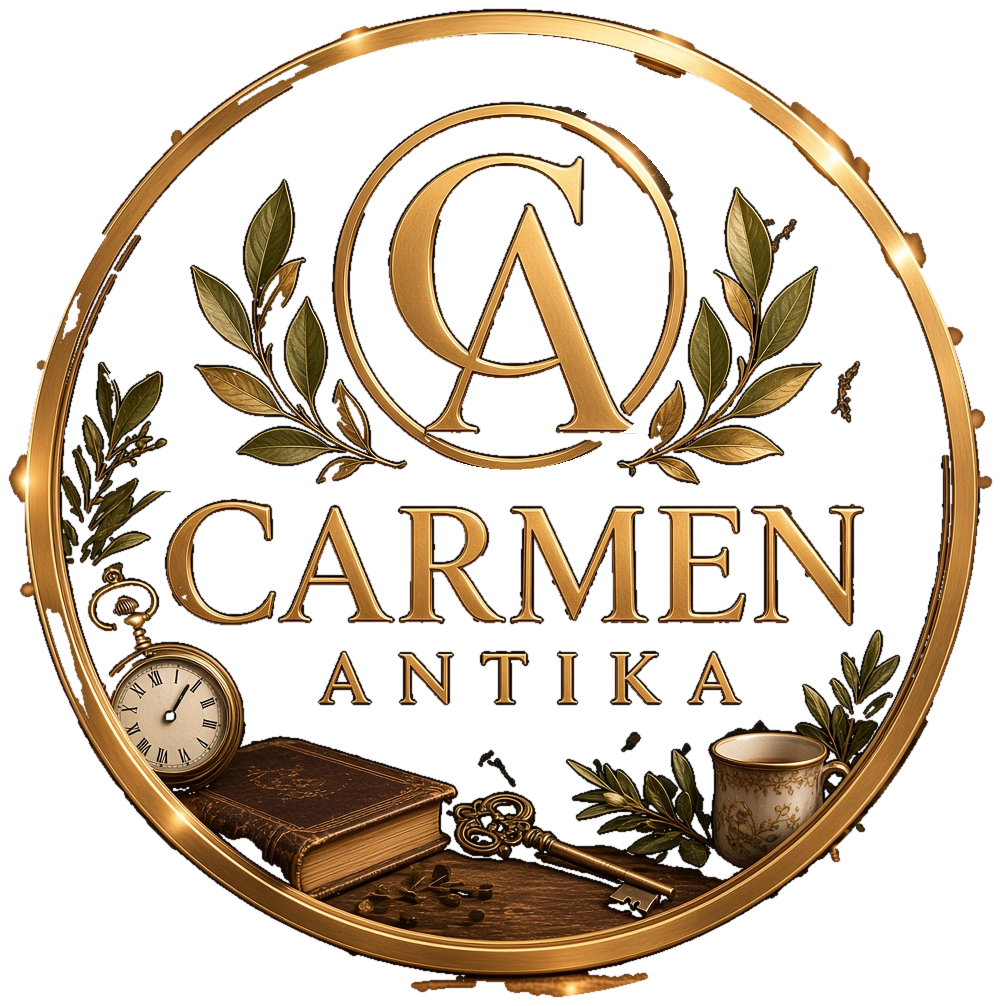
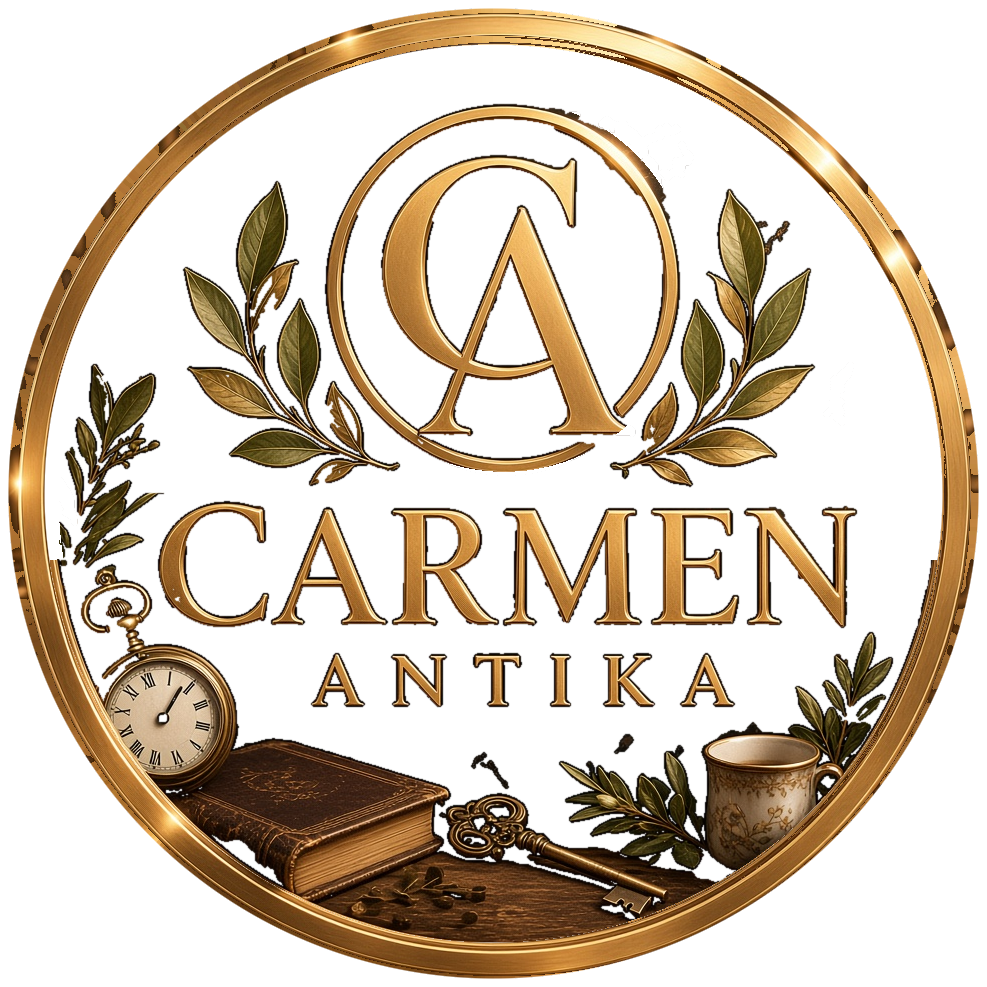
Put the stall photo back under the homepage buttons and swap in the sharper lockup.
The opening stack is now the Carmen seal, the headline, the two CTAs, then the flea-market image with stamp and caption.

diff --git a/client/src/index.css b/client/src/index.css
@@ -76,9 +76,9 @@ a { color: inherit; text-decoration: none; }
 .mobile-toggle { display: none; }
 
 .hero { padding: 58px 0 76px; }
-.hero-grid { display: flex; justify-content: center; }
+.hero-grid { display: flex; flex-direction: column; align-items: center; }
 .hero-copy { display: flex; flex-direction: column; align-items: center; text-align: center; padding: 12px 0 8px; max-width: 760px; margin: 0 auto; }
-.hero-title { margin: 0 0 32px; max-width: 610px; font-size: clamp(52px, 6.4vw, 96px); line-height: .82; font-weight: 500; letter-spacing: -.07em; }
+.hero-title { margin: 0 0 32px; max-width: 740px; font-size: clamp(52px, 6.4vw, 96px); line-height: .82; font-weight: 500; letter-spacing: -.07em; }
 .hero-title em { color: var(--terracotta); font-style: italic; }
 .hero-brand { margin: 0 0 28px; width: min(340px, 72%); }
 .hero-brand img { display: block; width: 100%; height: auto; background: transparent; }
@@ -90,7 +90,7 @@ a { color: inherit; text-decoration: none; }
 .outline-cta:hover { background: var(--secondary); transform: translateY(-1px); }
 .hero-note { margin-top: 54px; display: flex; gap: 20px; align-items: center; color: var(--muted-foreground); font-size: 10px; letter-spacing: .1em; text-transform: uppercase; }
 .hero-note strong { color: var(--ink); font-size: 20px; font-family: "Cormorant Garamond", Georgia, serif; font-weight: 600; }
-.hero-visual { position: relative; min-height: 600px; }
+.hero-visual { position: relative; width: min(100%, 1000px); aspect-ratio: 5 / 4; min-height: 0; margin: 52px auto 36px; }
 .hero-photo { position: absolute; inset: 0 7% 0 0; overflow: hidden; background: #c4a181; }
 .hero-photo img { width: 100%; height: 100%; object-fit: cover; transition: transform 1.35s var(--ease-soft); }
 .hero-visual:hover .hero-photo img { transform: scale(1.018); }
@@ -235,7 +235,8 @@ html.scroll-down, html { --reveal-y: 44px; }
   .topline-inner span:last-child { display: none; }
   .header-actions .search-button { display: none; }
   .hero-title { font-size: clamp(48px, 12vw, 68px); }
-  .hero-photo { inset-right: 0; }
+  .hero-visual { aspect-ratio: 4 / 3; margin-top: 36px; }
+  .hero-photo { inset: 0; }
   .hero-stamp { width: 92px; height: 92px; top: 7%; }
   .hero-stamp span { font-size: 8px; }
   .hero-caption { width: 170px; bottom: 15px; padding: 14px; }
@@ -268,8 +269,8 @@ html.scroll-down, html { --reveal-y: 44px; }
   transform: none;
   transition: transform 1.05s var(--ease-soft);
 }
-.hero-only { min-height: calc(100svh - 116px); display: grid; grid-template-rows: 1fr auto; align-items: stretch; padding-top: 46px; padding-bottom: 0; overflow-x: hidden; }
-.hero-only .hero-grid { align-self: center; }
+.hero-only { display: flex; flex-direction: column; padding-top: 36px; padding-bottom: 0; overflow-x: hidden; }
+.hero-only .hero-grid { width: 100%; }
 .hero-portal { border-top: 1px solid rgba(111, 83, 56, .18); background: var(--paper); }
 .hero-portal-inner { display: flex; justify-content: space-between; align-items: end; gap: 30px; padding: 60px 0 40px; }
 .hero-portal h2 { margin: 14px 0 0; font-family: "Cormorant Garamond", Georgia, serif; font-size: clamp(42px, 6vw, 76px); line-height: .82; letter-spacing: -.06em; font-weight: 500; }
@@ -744,6 +745,7 @@ html.scroll-up .site-header { transform: translateY(0); box-shadow: 0 13px 25px 
   .hero-only { padding-top: 12px; }
   .hero-title { font-size: clamp(40px, 11vw, 56px); }
   .hero-brand { margin: 0 0 20px; width: min(250px, 78%); }
+  .hero-visual { aspect-ratio: 4 / 3; margin: 28px auto 24px; }
   .hero-stamp { width: 76px; height: 76px; top: 16px; right: 12px; }
   .hero-caption { left: 12px; right: auto; bottom: 12px; width: min(190px, 58%); }
   .cta-row { display: grid; gap: 10px; }

diff --git a/client/src/pages/Home.tsx b/client/src/pages/Home.tsx
@@ -5,6 +5,8 @@ import { HomeReviewForm, ReviewTicker } from "@/components/HomeReviews";
 import { HeroEnter, heroItem } from "@/components/PageMotion";
 import { StoreLayout } from "@/components/StoreLayout";
 
+const ease = [0.22, 0.8, 0.24, 1] as const;
+
 export default function Home() {
   return (
     <StoreLayout>
@@ -13,7 +15,7 @@ export default function Home() {
         <div className="container-carmen hero-grid">
           <HeroEnter className="hero-copy">
             <motion.div className="hero-brand" variants={heroItem}>
-              <img src="/brand/carmen-lockup.png" alt="Carmen Antika" width="1001" height="1006" />
+              <img src="/brand/carmen-lockup.png?v=3" alt="Carmen Antika" width="987" height="987" />
             </motion.div>
             <motion.h1 className="hero-title serif text-balance" variants={{ hidden: {}, show: { transition: { staggerChildren: 0.1 } } }}>
               <motion.span className="hero-line" variants={heroItem}>Geçmişten gelen,</motion.span>
@@ -24,6 +26,18 @@ export default function Home() {
               <Link className="outline-cta" href="/hikayemiz">Hikâyemiz</Link>
             </motion.div>
           </HeroEnter>
+          <div className="hero-visual" data-parallax="0.05">
+            <motion.div className="hero-photo" initial={{ y: 18 }} animate={{ y: 0 }} transition={{ duration: 0.7, delay: 0.08, ease }}>
+              <img src="/photos/hero-stall.jpg" alt="Carmen Antika vitrininden seçilmiş antika parçalar" />
+            </motion.div>
+            <motion.div className="hero-stamp" initial={{ scale: 0.92, rotate: 6 }} animate={{ scale: 1, rotate: 12 }} transition={{ duration: 0.7, delay: 0.2, ease }}>
+              <span>One of<br />a kind<br />objects</span>
+            </motion.div>
+            <motion.div className="hero-caption" initial={{ y: 12 }} animate={{ y: 0 }} transition={{ duration: 0.6, delay: 0.16, ease }}>
+              <p>Bir ev, seçtiği parçalar kadar kendisidir.</p>
+              <small>Antalya</small>
+            </motion.div>
+          </div>
         </div>
         <ReviewTicker />
       </section>
